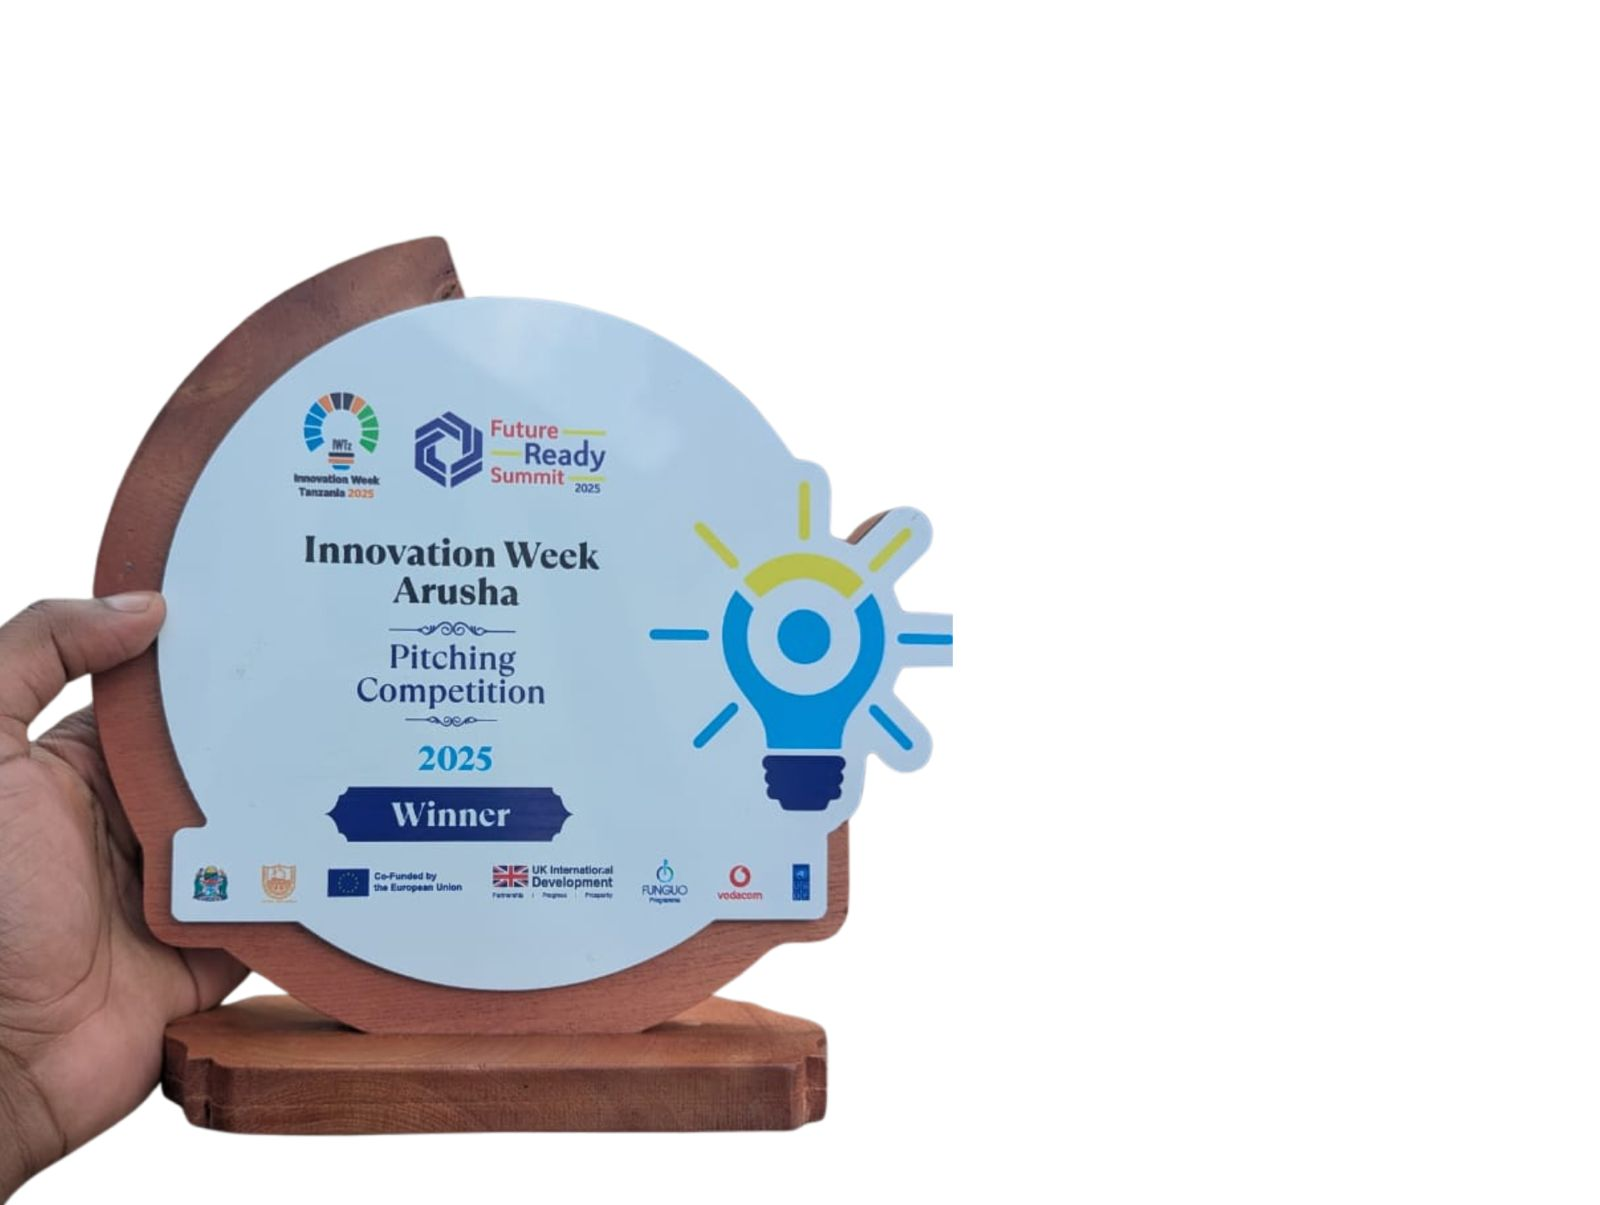
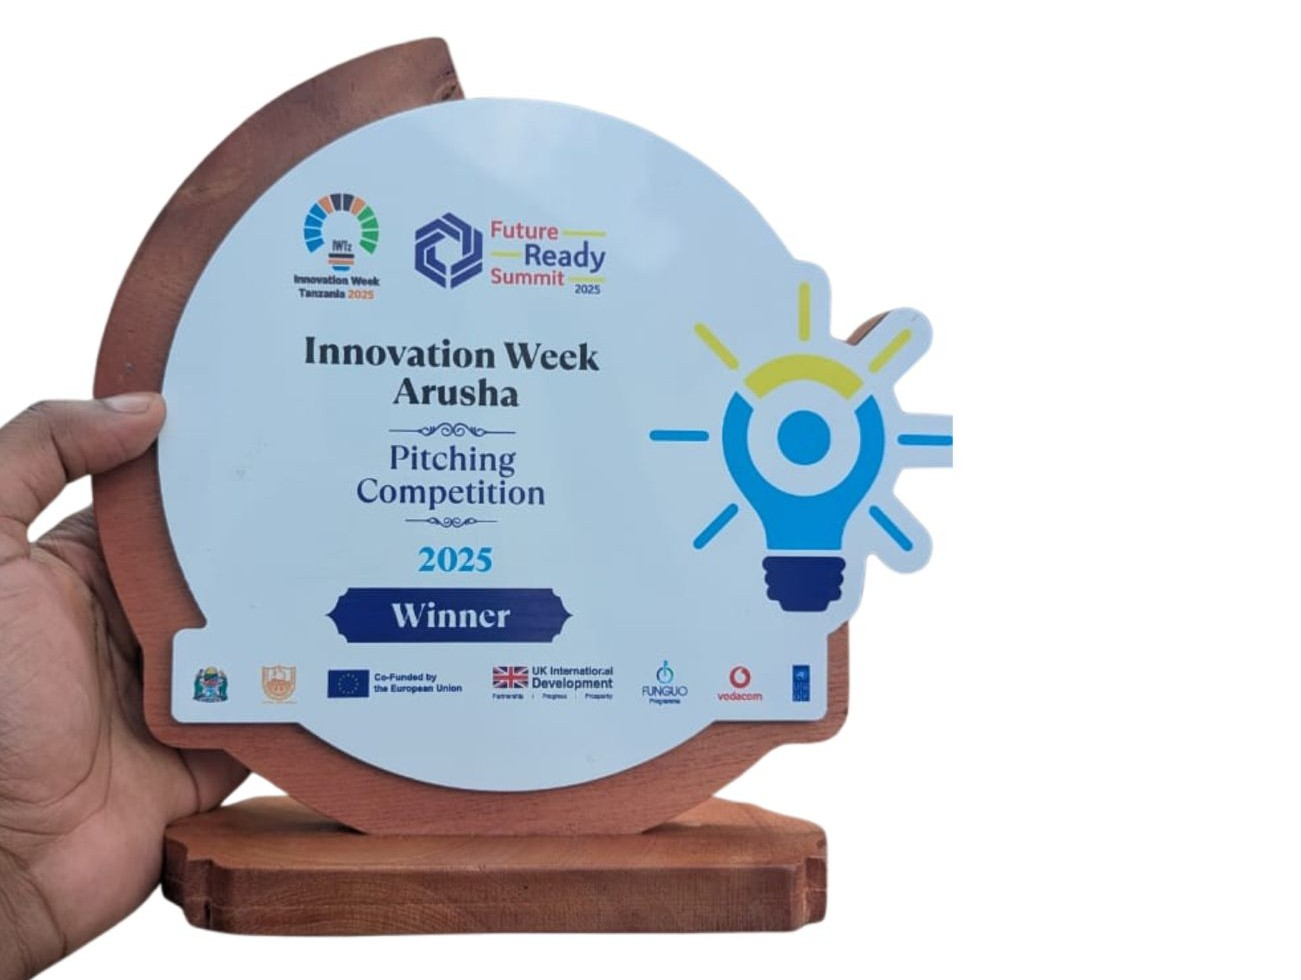
Update: Modify awards page and add new images

diff --git a/app/awards/page.js b/app/awards/page.js
@@ -54,7 +54,7 @@ export default function Awards() {  // Awards data from Linktree
       organization: "SOMO",
       year: "2024",
       description: "Received business financial support to boost growth and accounting software for real time financial tracking.",
-      image: "/new/somo.jpg",
+      image: "/new/SOMO.jpg",
       link: "https://invest.somoafrica.org/public/2659/CUTOFF%20RECYCLE%20LIMITED"
     },
     {
@@ -63,7 +63,7 @@ export default function Awards() {  // Awards data from Linktree
       organization: "UNDP | Institute of Accountancy Arusha",
       year: "2025",
       description: "Winner of business pitching competition about our human hair recycling innovation",
-      image: "/new/pitch.jpg",
+      image: "/new/innovationweek.jpg",
       link: "https://www.instagram.com/p/DIEhTq0uJNu/"
     },
     {
@@ -73,7 +73,7 @@ export default function Awards() {  // Awards data from Linktree
       year: "2025",
       description: "Received on-going support for our business growth and development by MasterCard Foundation as Anzisha Prize Alumni.",
       image: "/new/inkomoko.jpg",
-      link: "https://www.instagram.com/p/DIEhTq0uJNu/"
+      link: "https://www.linkedin.com/posts/inkomoko_solutionsfoundhere-activity-7355494721617543168-k8Be?utm_source=share&utm_medium=member_desktop&rcm=ACoAACihCDQBnkEHDpBKC0mvkFMq8SKYRwYlY-4"
     }
   ];
 
@@ -196,7 +196,7 @@ export default function Awards() {  // Awards data from Linktree
           <div className="flex items-center justify-center">
             <div className="w-20 h-20 relative rounded-full overflow-hidden mr-5 border-4 border-brand-green/30">
               <Image 
-                src="/Images/Photos/IMG_20241021_121702_350.jpg"
+                src="/new/David0.jpg"
                 alt="CEO" 
                 fill
                 className="object-cover"
